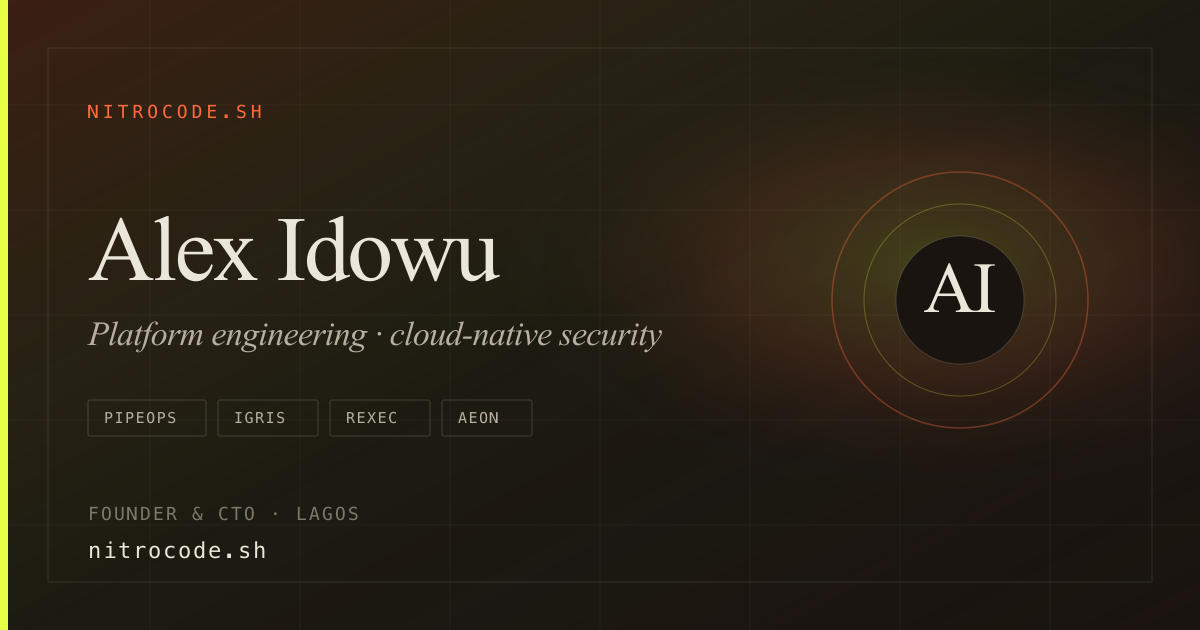
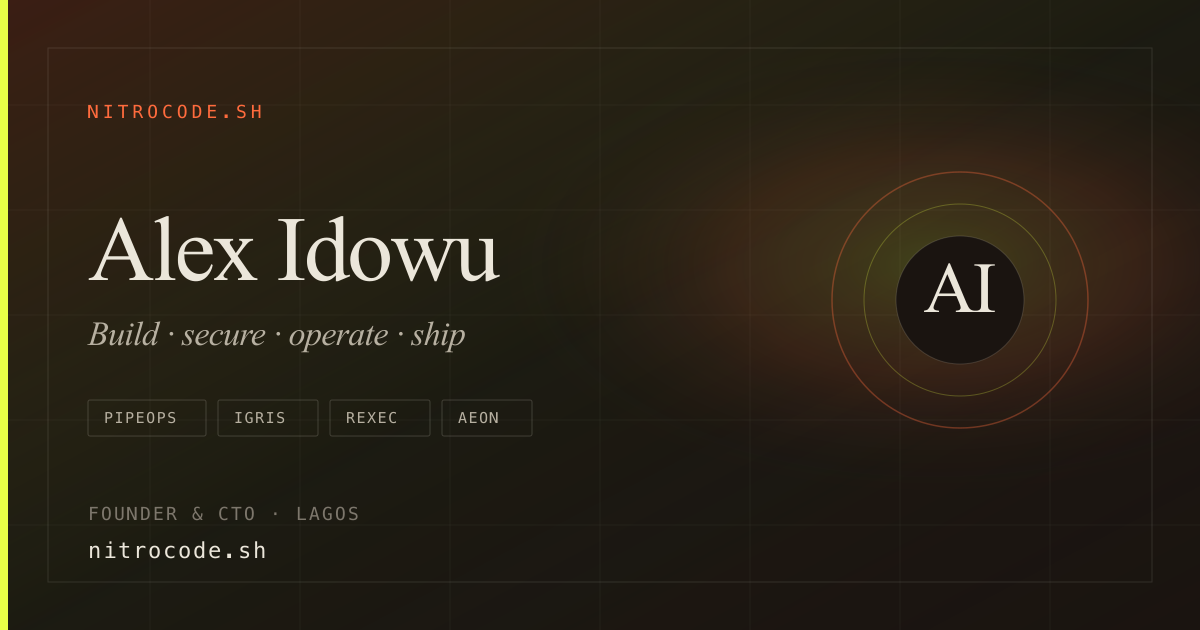
Broaden site positioning beyond cloud and deploy.
Hero, tagline, SEO, and OG now cover build, secure, and operate so the
story matches work across software, security, and production systems.

Changed region(s): [[0.0617, 0.5127, 0.555, 0.573]]

diff --git a/index.md b/index.md
@@ -1,15 +1,15 @@
 ---
 layout: default
-title: Alex Idowu - Platform Engineering & Cloud-Native Security
-description: Founder & CTO at PipeOps. I build platforms that hide the hard parts of cloud, ship open source isolation tools, and write what actually survives production.
+title: Alex Idowu - Build, secure, and run systems
+description: Founder & CTO at PipeOps. I work across software, security, and operations: products, open source agents and sandboxes, and notes from production.
 image: /assets/images/nitrocode-og.png
 ---
 
 <section class="hero">
  <div class="hero__copy">
  <p class="hero__index">Founder &amp; CTO · Lagos</p>
- <h1 class="hero__title">Platforms that make infrastructure <em>disappear.</em></h1>
- <p class="hero__lede">I’m Alex Idowu. I design multi-cloud deploy systems, secure terminal sandboxes, and open tools at the edge of platform engineering and cloud-native security - then write down what actually survives production.</p>
+ <h1 class="hero__title">I build, secure, and run <em>systems.</em></h1>
+ <p class="hero__lede">I’m Alex Idowu. Developer, security-minded operator, and founder. Platforms and products, open source agents and sandboxes, and the unglamorous work of keeping software alive in production. Then I write down what actually worked.</p>
  <ul class="hero__meta">
  <li>PipeOps</li>
  <li>Igris</li>

diff --git a/about.md b/about.md
@@ -2,14 +2,14 @@
 layout: default
 title: About
 permalink: /about/
-description: Alex Idowu builds deployment platforms and open source infra from Lagos. Founder & CTO at PipeOps, builder of Igris, Rexec, and tools that make production systems a little less hostile.
+description: Alex Idowu works across software, security, and operations from Lagos. Founder & CTO at PipeOps; builder of Igris, Rexec, and tools for systems that have to ship and stay up.
 image: /assets/images/nitrocode-og.png
 ---
 
 <header class="page-hero">
  <p class="eyebrow">About</p>
  <h1>Alex Idowu</h1>
- <p>Cloud infrastructure engineer. Founder. I build platforms that make complex systems feel simple.</p>
+ <p>Engineer and founder across development, security, and operations. I build systems that have to ship, stay secure, and stay up.</p>
 </header>
 
 <div class="about-layout">
